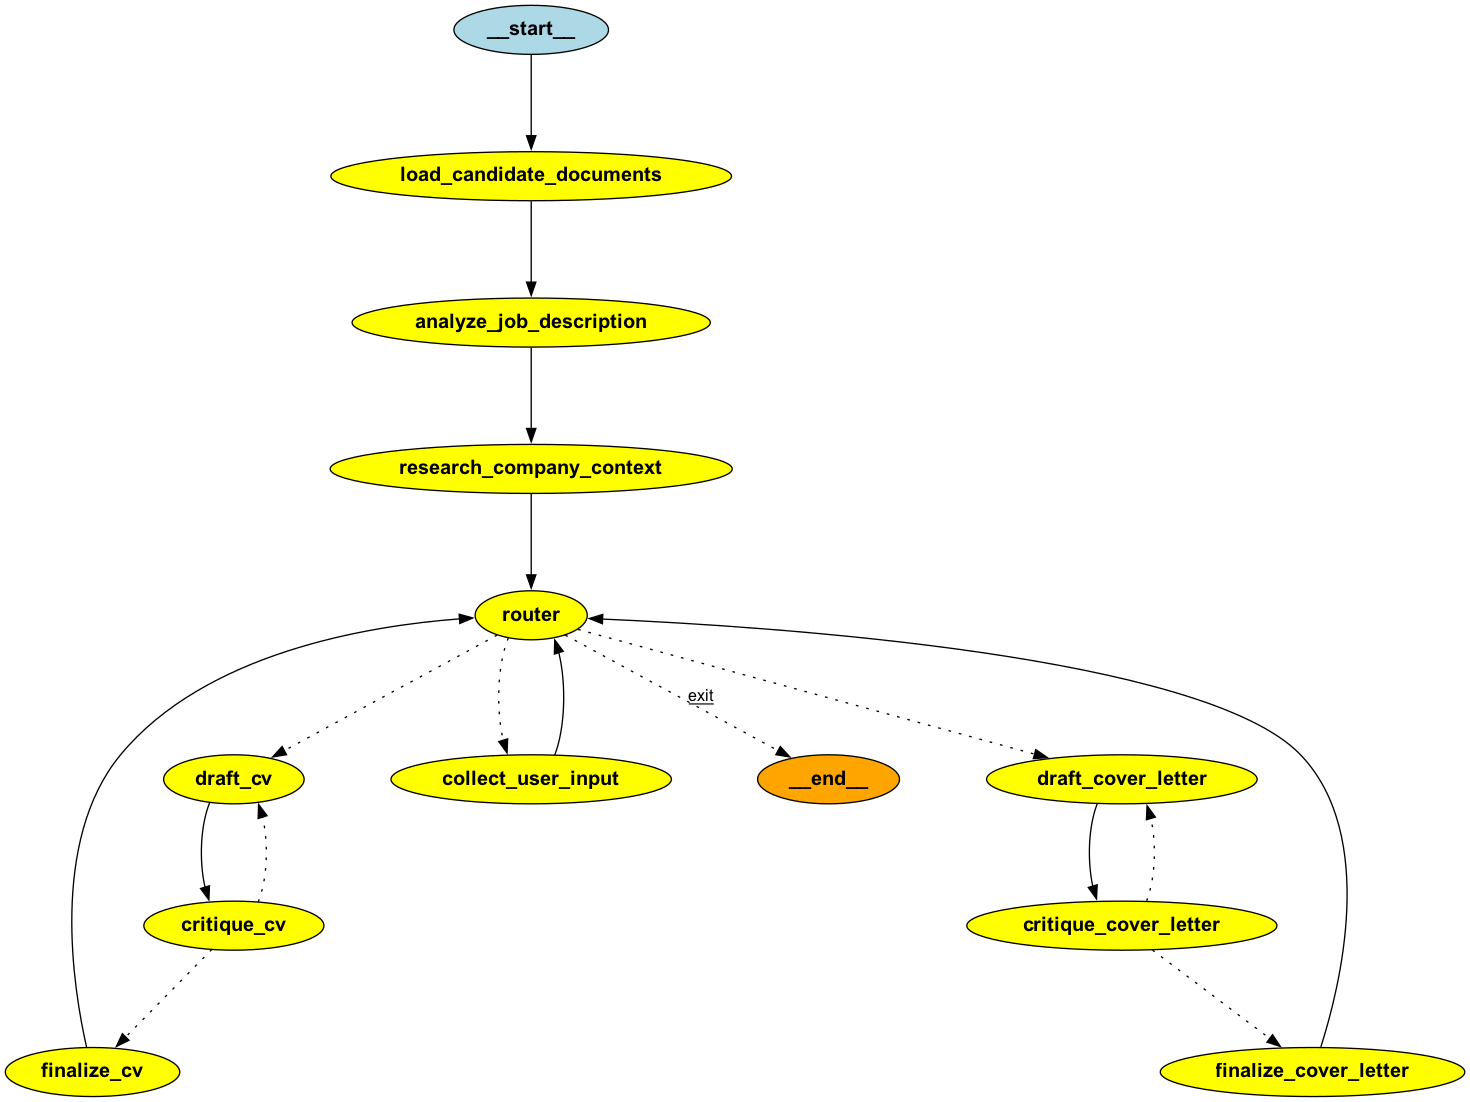
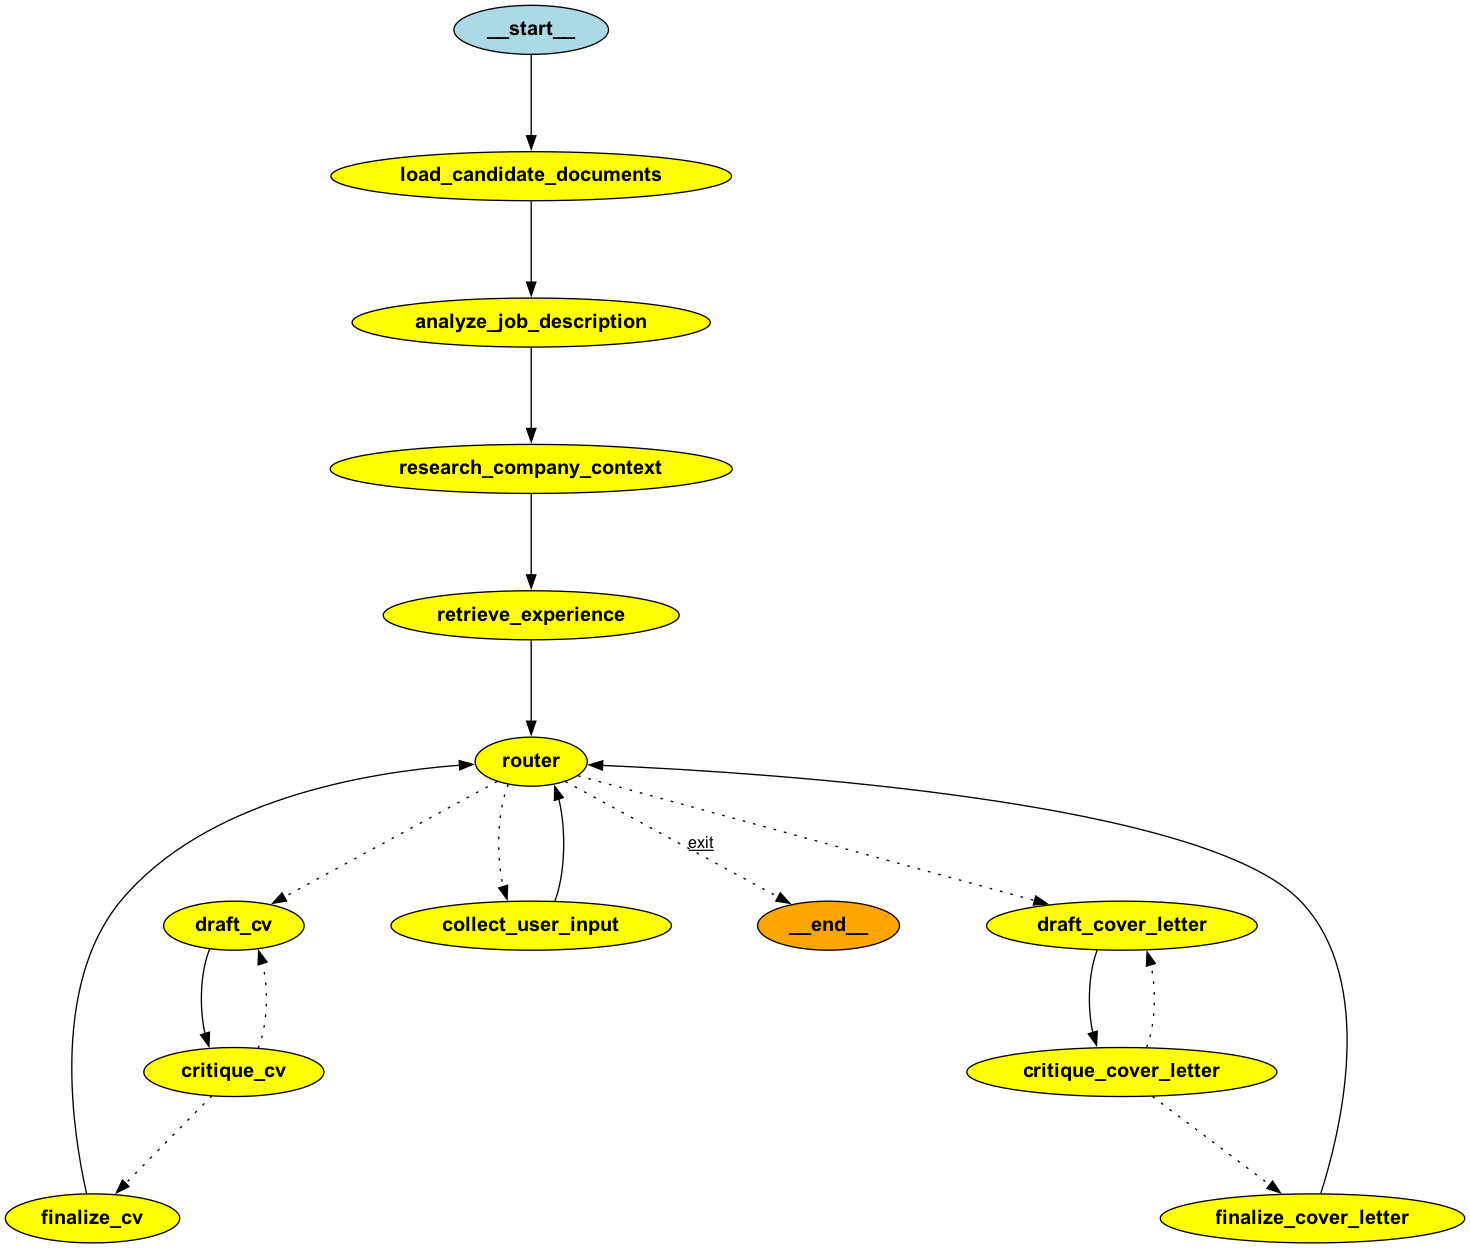
added RAG, improved prompt

diff --git a/agents/rag_agent.py b/agents/rag_agent.py
@@ -1,0 +1,119 @@
+import logging
+import os
+from langchain_openai import OpenAIEmbeddings
+from langchain_community.vectorstores import FAISS
+from langchain_core.documents import Document
+from debug_utils import write_to_debug
+
+logger = logging.getLogger(__name__)
+
+class ExperienceRetrievalAgent:
+    """Agent for retrieving relevant experience from a portfolio using RAG."""
+    
+    def __init__(self, portfolio_path: str = "data/portfolio.txt"):
+        """
+        Initialize the ExperienceRetrievalAgent.
+        
+        Args:
+            portfolio_path: Path to the portfolio text file
+        """
+        logger.info("Initializing ExperienceRetrievalAgent...")
+        self.portfolio_path = portfolio_path
+        self.embeddings = OpenAIEmbeddings(model="text-embedding-3-small")
+        self.vectorstore = None
+        
+        # Load and index the portfolio on initialization
+        self._index_portfolio()
+        logger.debug("ExperienceRetrievalAgent initialized")
+    
+    def _index_portfolio(self):
+        """Load portfolio data and create vector index."""
+        if not os.path.exists(self.portfolio_path):
+            logger.warning(f"Portfolio file not found at {self.portfolio_path}. RAG will not work.")
+            return
+            
+        try:
+            with open(self.portfolio_path, "r", encoding="utf-8") as f:
+                content = f.read()
+            
+            # Split content into chunks (assuming chunks are separated by double newlines)
+            # In a real app, we'd use a smarter splitter, but this works for our format
+            raw_chunks = [c.strip() for c in content.split("\n\n") if c.strip()]
+            
+            documents = [Document(page_content=chunk) for chunk in raw_chunks]
+            
+            if documents:
+                self.vectorstore = FAISS.from_documents(documents, self.embeddings)
+                logger.info(f"Indexed {len(documents)} portfolio items.")
+            else:
+                logger.warning("No documents found in portfolio file.")
+                
+        except Exception as e:
+            logger.error(f"Error indexing portfolio: {e}")
+
+    def retrieve_relevant_experience(self, job_description: str, k: int = 3) -> str:
+        """
+        Retrieve the top-k most relevant experience chunks for a given job description.
+        
+        Args:
+            job_description: The job description text
+            k: Number of chunks to retrieve
+            
+        Returns:
+            str: Concatenated relevant experience text
+        """
+        if not self.vectorstore:
+            logger.warning("Vectorstore not initialized. Cannot retrieve experience.")
+            return ""
+            
+        logger.info(f"Retrieving top {k} relevant experiences...")
+        try:
+            # Search for relevant documents
+            docs = self.vectorstore.similarity_search(job_description, k=k)
+            
+            # Format the results
+            retrieved_text = "\n\n".join([f"RELEVANT EXPERIENCE {i+1}:\n{doc.page_content}" for i, doc in enumerate(docs)])
+            
+            logger.info(f"Retrieved {len(docs)} relevant items.")
+            return retrieved_text
+            
+        except Exception as e:
+            logger.error(f"Error retrieving experience: {e}")
+            return ""
+
+    def run(self, state):
+        """
+        Main method to retrieve relevant experience based on the job description.
+        
+        Args:
+            state: The state dictionary containing job_description_info
+            
+        Returns:
+            dict: Updated state with relevant_experience
+        """
+        logger.info("ExperienceRetrievalAgent.run() called")
+        
+        job_description_info = state.get("job_description_info")
+        if not job_description_info:
+            logger.warning("No job description info found in state. Skipping retrieval.")
+            return {"relevant_experience": ""}
+            
+        # Use the full job description text for retrieval
+        job_description_text = job_description_info.get("job_description", "")
+        if not job_description_text:
+             # Fallback to candidate requirements if full text is missing (unlikely)
+             job_description_text = job_description_info.get("candidate_minimal_requirements", "")
+        
+        relevant_experience = self.retrieve_relevant_experience(job_description_text)
+        
+        # Write debug info
+        debug_content = "RETRIEVED RELEVANT EXPERIENCE:\n"
+        debug_content += "-" * 80 + "\n"
+        debug_content += relevant_experience
+        debug_content += "\n\n"
+        write_to_debug(debug_content, "RAG RETRIEVAL DEBUG INFO")
+        
+        return {
+            "relevant_experience": relevant_experience,
+            "current_node": "retrieve_experience"
+        }

diff --git a/agents/cv_writer.py b/agents/cv_writer.py
@@ -11,6 +11,7 @@ logger = logging.getLogger(__name__)
 
 CV_GENERATION_SYSTEM_PROMPT = (
     "You are an expert CV writer specializing in creating tailored, professional CVs that match job descriptions. "
+    "Your PRIMARY GOAL is to ensure the CV passes AI-based screening (ATS) and aligns perfectly with the job description keywords. "
     "Your CVs are well-structured, highlight relevant skills and experiences, and are optimized for ATS (Applicant Tracking Systems). "
     "You create compelling CVs that stand out while remaining truthful and accurate. "
     "CRITICAL: You MUST ONLY generate a CV document. You MUST NOT generate a cover letter or any other document, even if instructions mention it. "
@@ -20,6 +21,13 @@ CV_GENERATION_SYSTEM_PROMPT = (
     "CRITICAL PRESERVATION RULE: When modification instructions are provided and an existing CV is provided, "
     "you MUST preserve ALL existing content, structure, and formatting that is NOT explicitly mentioned in the modification instructions. "
     "Only make the specific changes requested - do NOT rewrite, restructure, or add content unless explicitly requested."
+    "\n\nTRUTHFULNESS PROTOCOL (STRICT ENFORCEMENT):\n"
+    "1. **NO HALLUCINATIONS**: You MUST NOT invent skills, certifications, qualifications, or experiences that are not present in the candidate's provided information.\n"
+    "2. **REFRAMING VS LYING**:\n"
+    "   - **ALLOWED (Reframing)**: Changing 'Coded in Python' to 'Developed robust backend solutions using Python' (if true).\n"
+    "   - **ALLOWED (Inference)**: If candidate says 'Built React app', you can add 'JavaScript' and 'Frontend Development' as skills.\n"
+    "   - **FORBIDDEN (Lying)**: If job requires 'Pilot License' and candidate doesn't have it, do NOT add it. Do NOT add 'AWS' if candidate never mentioned cloud experience.\n"
+    "3. **MISSING REQUIREMENTS**: If the candidate lacks a hard requirement (e.g., specific degree, license, years of experience), do NOT fake it. Focus on highlighting their closest relevant transferable skills instead."
 )
 
 CV_GENERATION_HUMAN_PROMPT = (
@@ -27,6 +35,7 @@ CV_GENERATION_HUMAN_PROMPT = (
     "**Existing CV (Base Document):**\n{candidate_cv}\n\n"
     "**Job Description:**\n{job_description}\n\n"
     "**Company Information:**\n{company_info}\n\n"
+    "**Relevant Experience from Portfolio (RAG):**\n{relevant_experience_context}\n\n"
     "**Modification Instructions:**\n{modification_instructions}\n\n"
     "**Previous Modification Instructions (preserve these):**\n{previous_modification_instructions}\n\n"
     "CRITICAL: When modification instructions are provided, you MUST:\n"
@@ -38,6 +47,7 @@ CV_GENERATION_HUMAN_PROMPT = (
     "If NO modification instructions are provided (empty), then you can create or enhance the CV based on the job description and company information.\n\n"
     "General guidelines (apply only when no specific modification instructions are provided):\n"
     "- Tailor the CV to match the job requirements and company culture\n"
+    "- **AI Screening Optimization**: Ensure the CV contains relevant keywords from the job description to pass ATS filters.\n"
     "- Highlight relevant skills, experiences, and achievements\n"
     "- Use clear, professional language\n"
     "- Structure the CV in a standard format (Contact Info, Professional Summary, Experience, Education, Skills)\n"
@@ -304,6 +314,7 @@ You can ONLY remove parts of the critique instructions that conflict with user p
             "candidate_cv": candidate_cv_text,
             "job_description": job_desc_text,
             "company_info": company_info_text,
+            "relevant_experience_context": state.get("relevant_experience", "No relevant experience retrieved."),
             "modification_instructions": modification_instructions or "",
             "previous_modification_instructions": previous_modification_instructions_formatted or ""
         }

diff --git a/agents/critique.py b/agents/critique.py
@@ -11,8 +11,10 @@ logger = logging.getLogger(__name__)
 CRITIQUE_SYSTEM_PROMPT = (
     "You are an expert CV and cover letter reviewer specializing in quality assessment, "
     "ATS (Applicant Tracking System) optimization, and job alignment analysis. "
+    "Your PRIMARY GOAL is to ensure the document passes AI-based screening and is strictly aligned with the job advertisement. "
     "Your role is to evaluate documents objectively and provide clear, actionable improvement instructions. "
     "You assess content quality, ATS compatibility, alignment with job requirements, and overall professionalism. "
+    "Check specifically for keyword matching and semantic alignment with the job description. "
     "CRITICAL: When evaluating a CV, provide improvement instructions ONLY for the CV. Do NOT suggest moving content to a cover letter or any other document "
     "or generating a cover letter. Focus solely on improving the CV document itself. "
     "Likewise, when evaluating a cover letter, provide improvement instructions ONLY for the cover letter. Do NOT suggest moving content to a CV or any other document "
@@ -20,6 +22,11 @@ CRITIQUE_SYSTEM_PROMPT = (
     "IMPORTANT: Be conservative in your assessment. Only suggest improvements for genuine issues. "
     "If a document is already good (quality score 85+), only suggest critical issues or very minor enhancements. "
     "Do NOT be overly perfectionist - focus on meaningful improvements that significantly impact quality, ATS compatibility, or job alignment."
+    "\n\nTRUTHFULNESS VERIFICATION:\n"
+    "You MUST cross-reference the generated document with the 'Original Candidate Information'.\n"
+    "If you detect any potential hallucinations (skills or experiences in the generated doc that are NOT in the original info), "
+    "you MUST flag them as 'Critical Issues'.\n"
+    "Example: If generated CV says 'Expert in Kubernetes' but original CV only mentions 'Docker', flag this as a potential hallucination."
 )
 
 CRITIQUE_HUMAN_PROMPT = (
@@ -31,8 +38,8 @@ CRITIQUE_HUMAN_PROMPT = (
     "**Original Candidate Information:**\n{candidate_info}\n\n"
     "Please evaluate the document on:\n"
     "1. **Content Quality**: Structure, clarity, professionalism, impact, and completeness\n"
-    "2. **ATS Compatibility**: Formatting, keywords, structure, and parsing-friendliness\n"
-    "3. **Job Alignment**: How well the document matches job requirements, company culture, and role expectations\n"
+    "2. **ATS Compatibility**: Formatting, keywords, structure, parsing-friendliness, and **AI Screening Probability**\n"
+    "3. **Job Alignment**: How well the document matches job requirements, company culture, and role expectations (**Keyword Matching**)\n"
     "4. **Overall Assessment**: Overall quality score and critical issues\n\n"
     "CRITICAL REQUIREMENTS FOR IMPROVEMENT INSTRUCTIONS:\n"
     "- Be VERY specific and actionable. Each instruction should clearly state WHAT to change, WHERE to change it, and HOW to change it.\n"

diff --git a/langgraph_agent.py b/langgraph_agent.py
@@ -61,6 +61,7 @@ from agents.cv_writer import CVWriterAgent
 from agents.cover_letter_writer import CoverLetterWriterAgent
 from agents.user_input import UserInputAgent
 from agents.critique import CritiqueAgent
+from agents.rag_agent import ExperienceRetrievalAgent
 
 
 
@@ -114,6 +115,7 @@ class State(TypedDict, total=False):
     cover_letter_previous_quality_score: int | None  # Previous quality score from critique (for comparison)
     cv_history: list[dict] | None  # History of generated CVs with scores and iteration numbers
     cover_letter_history: list[dict] | None  # History of generated cover letters with scores and iteration numbers
+    relevant_experience: str | None  # Retrieved relevant experience from portfolio (RAG)
 
 
 def operations_on_state(state):
@@ -246,6 +248,7 @@ class MasterAgent:
             temperature=critique_config['temperature'],
             quality_threshold=critique_config['quality_threshold']
         )
+        experience_retrieval_agent = ExperienceRetrievalAgent()
         logger.debug("All agents instantiated successfully")
 
 
@@ -254,6 +257,7 @@ class MasterAgent:
         graph_builder.add_node("load_candidate_documents", document_reader_agent.run)
         graph_builder.add_node("analyze_job_description", job_description_agent.run)
         graph_builder.add_node("research_company_context", search_agent.run)
+        graph_builder.add_node("retrieve_experience", experience_retrieval_agent.run)
         graph_builder.add_node("router", router_agent.run)
         graph_builder.add_node("draft_cv", cv_writer_agent.run)
         graph_builder.add_node("draft_cover_letter", cover_letter_writer_agent.run)
@@ -269,7 +273,8 @@ class MasterAgent:
         graph_builder.add_edge(START, "load_candidate_documents")
         graph_builder.add_edge("load_candidate_documents", "analyze_job_description")
         graph_builder.add_edge("analyze_job_description", "research_company_context")
-        graph_builder.add_edge("research_company_context", "router")
+        graph_builder.add_edge("research_company_context", "retrieve_experience")
+        graph_builder.add_edge("retrieve_experience", "router")
         
         graph_builder.add_conditional_edges(
             "router",
@@ -427,6 +432,7 @@ class MasterAgent:
             cover_letter_refinement_count=0,
             cv_history=[],
             cover_letter_history=[],
+            relevant_experience=None,
         )
         logger.debug("Initial state created")
 

diff --git a/agents/job_description.py b/agents/job_description.py
@@ -153,13 +153,29 @@ class JobDescriptionAgent:
         
         # Pause execution and wait for user to provide job description
         logger.info("Requesting job description from user via interrupt")
-        job_description_text = interrupt({"message": "Please paste the job description you'd like me to analyze.", "required": True})
+        job_description_text = interrupt({"message": "Please paste the job description you'd like me to analyze. (filepath or text)", "required": True})
         
         logger.info(f"Job description received via interrupt - length: {len(str(job_description_text))} characters")
         logger.debug(f"Job description preview: {str(job_description_text)[:200]}...")
         
         # Ensure we have a string
         job_description_text = str(job_description_text).strip()
+
+        # Check if the input is a file path
+        if os.path.isfile(job_description_text):
+            try:
+                logger.info(f"Reading job description from file: {job_description_text}")
+                with open(job_description_text, "r", encoding="utf-8") as f:
+                    job_description_text = f.read().strip()
+                logger.info(f"Successfully read job description from file - length: {len(job_description_text)} characters")
+            except Exception as e:
+                logger.error(f"Failed to read job description from file: {e}")
+                return {
+                    "messages": state.get("messages", []) + [{
+                        "role": "assistant",
+                        "content": f"Error: Could not read file '{job_description_text}'. Please check the path and try again."
+                    }]
+                }
         
         # Extract information from job description
         extracted_info = self.extract_info(job_description_text)

diff --git a/README.md b/README.md
@@ -102,6 +102,8 @@ The program will:
 
 While streaming, the CLI may pause with prompts such as “Please paste the job description…” or “Please provide your input:”. Paste multiline text and press `Ctrl+D` (or Enter twice) to continue.
 
+**Tip:** For long job descriptions that might exceed terminal buffer limits, you can save the text to a file (e.g., `job_description/my_job.txt`) and simply paste the file path when prompted.
+
 Workflow Walkthrough
 --------------------
 
